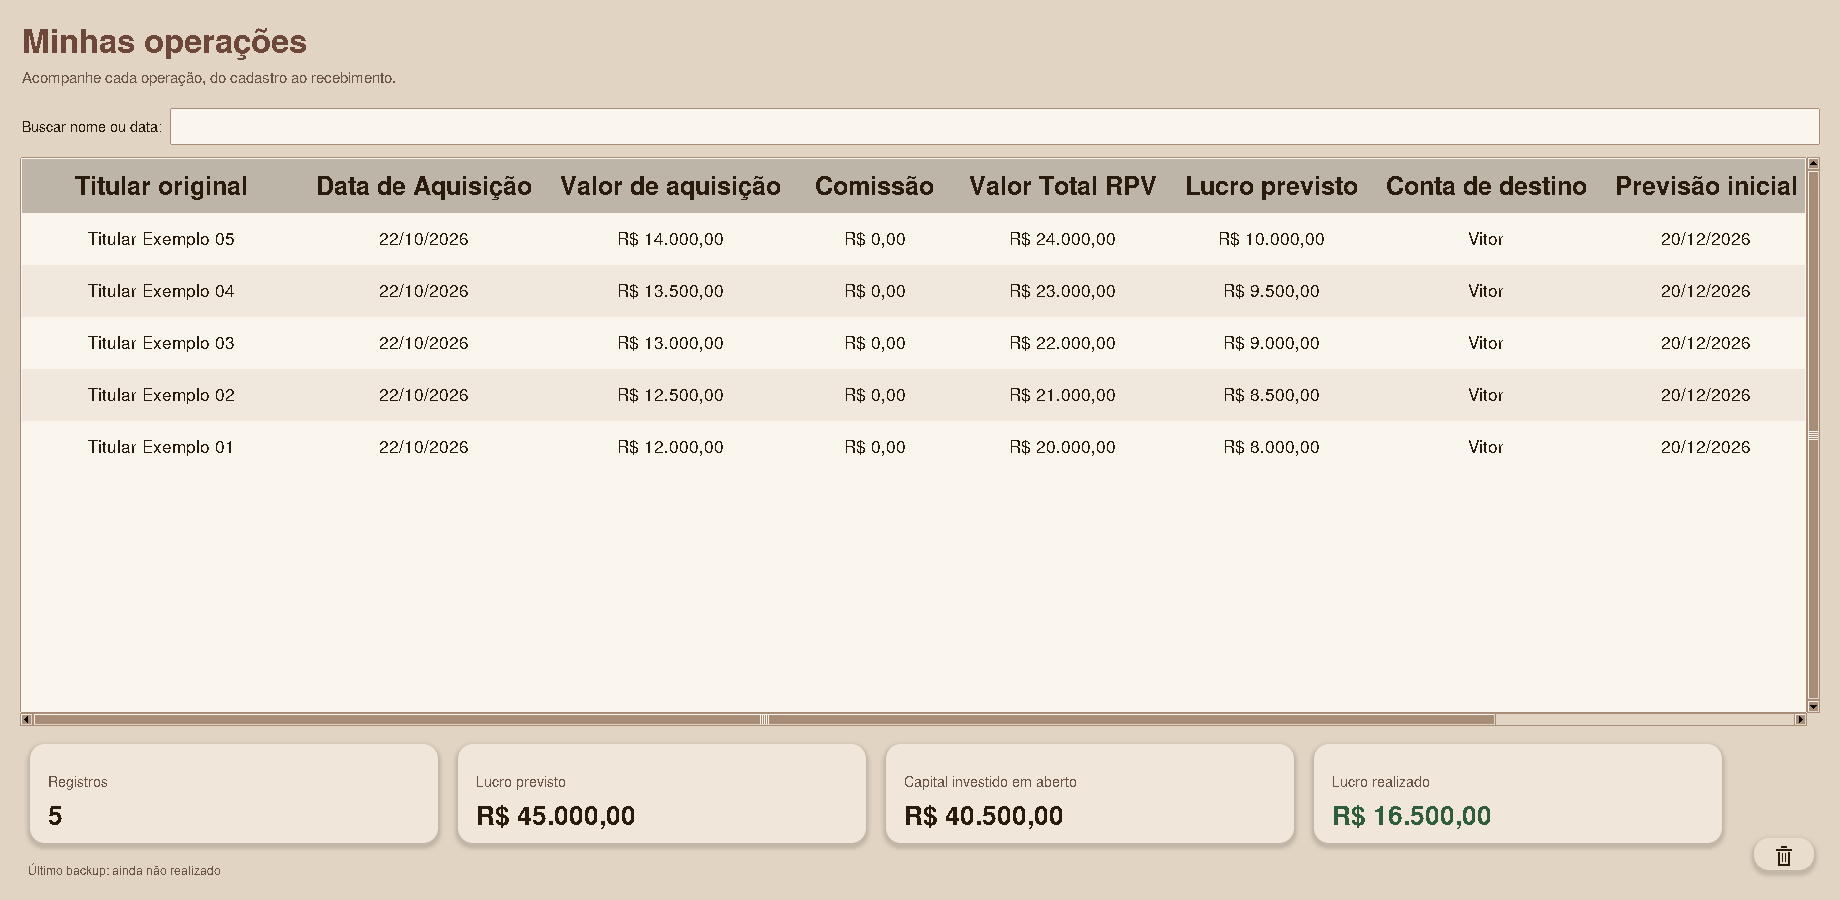
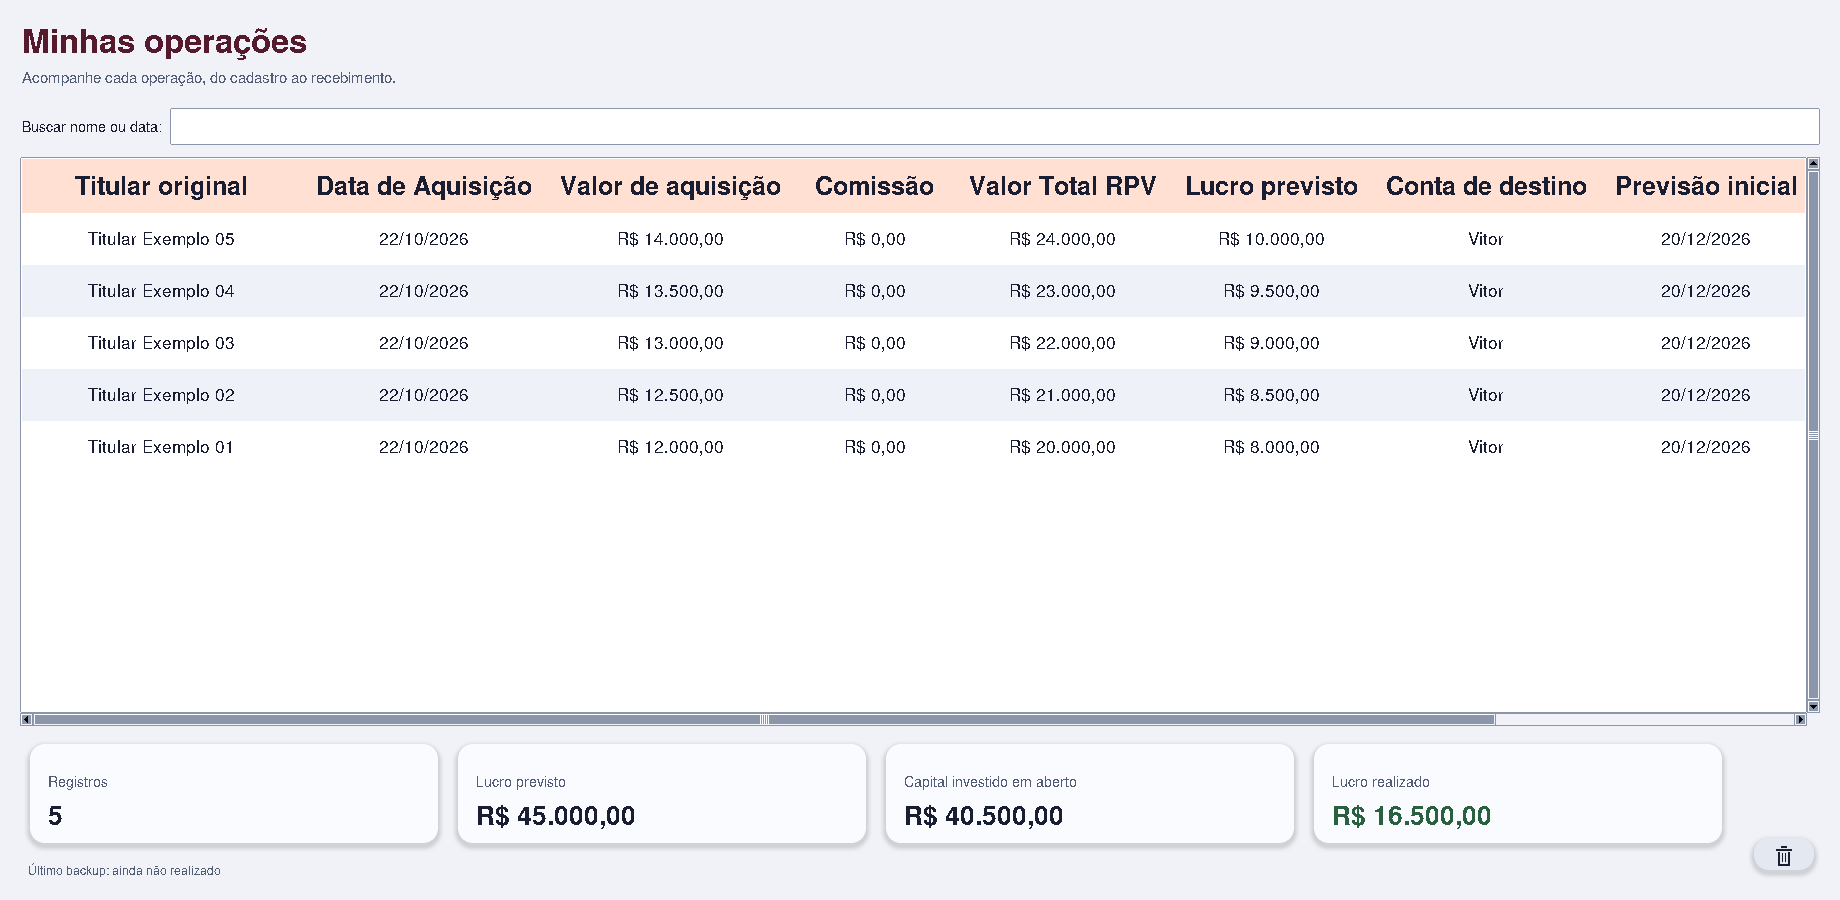
Aplica paleta azul e pêssego nos temas da versão 0.16.3

diff --git a/tema.py b/tema.py
@@ -3,16 +3,16 @@ import tkinter as tk
 from tkinter import ttk
 
 PALETAS = {
-    'claro': dict(fundo='#e1d4c2', campo='#faf5ed', superficie='#f0e6d9', texto='#291c0e',
-                  secundario='#695447', botao='#e9ddce', borda='#a78d78', ativo='#d6c2ae',
-                  selecao='#d2b8a2', texto_selecao='#291c0e', verde='#305d3c', vermelho='#993c30',
-                  desabilitado='#7a6a5b', primario='#6e473b', primario_texto='#fff8ef', primario_ativo='#59372d',
-                  primario_pressionado='#41281f', floresta='#6e473b', sage='#beb5a9', linha='#f0e8dc'),
-    'escuro': dict(fundo='#21180f', campo='#291c0e', superficie='#33251b', texto='#f2e6d6',
-                   secundario='#c7b6a4', botao='#463227', borda='#806653', ativo='#533c2f',
-                   selecao='#654a3b', texto_selecao='#fff5e7', verde='#acd1a5', vermelho='#f3aaa0',
-                   desabilitado='#ae9985', primario='#c6a68c', primario_texto='#291c0e', primario_ativo='#dfc3a8',
-                   primario_pressionado='#a78d78', floresta='#dfc3a8', sage='#4a3729', linha='#302217'),
+    'claro': dict(fundo='#f0f2f7', campo='#ffffff', superficie='#fafbfe', texto='#191e32',
+                  secundario='#525e76', botao='#e3e8f1', borda='#8b96aa', ativo='#d3dbea',
+                  selecao='#ffd8c7', texto_selecao='#191e32', verde='#286040', vermelho='#b51a2b',
+                  desabilitado='#737e92', primario='#b51a2b', primario_texto='#ffffff', primario_ativo='#951526',
+                  primario_pressionado='#551a2b', floresta='#551a2b', sage='#ffe0d3', linha='#eef1f7'),
+    'escuro': dict(fundo='#191e32', campo='#1c2339', superficie='#242f49', texto='#f3f5fa',
+                   secundario='#b8c2d7', botao='#384358', borda='#6c7a95', ativo='#45516b',
+                   selecao='#4b3550', texto_selecao='#fff3ee', verde='#abd5ba', vermelho='#ffa3a9',
+                   desabilitado='#a0acc3', primario='#ffa586', primario_texto='#191e32', primario_ativo='#ffc0a8',
+                   primario_pressionado='#df8568', floresta='#ffa586', sage='#384358', linha='#252e46'),
 }
 _modo = 'claro'
 

diff --git a/versao.py b/versao.py
@@ -1,2 +1,2 @@
 """Versão da entrega publicada no GitHub com a tag correspondente."""
-VERSAO = '0.16.2'
+VERSAO = '0.16.3'

diff --git a/README.md b/README.md
@@ -1,4 +1,4 @@
-# Gestor de RPV — 0.16.2
+# Gestor de RPV — 0.16.3
 
 Aplicativo pessoal para Windows, em Python com Tkinter e SQLite. Cada computador
 mantém seus próprios dados, sem servidor ou sincronização. Não exige pacotes extras.
@@ -14,22 +14,22 @@ python app.py
 
 Mantenha `app.py`, `dados.py`, `componentes.py`, `contas.py`, `interacao.py`, `tema.py`, `calculadora.py`, `backup.py`, `ordenacao.py`, `selecao.py`, `documentos.py`, `visual.py` e `versao.py` juntos.
 A tela inicial tem os botões **Nova entrada**, **Minhas operações**,
-**Contas de recebimento** e **Sair**. A assinatura **Vitoran Tech · v0.16.2** aparece no canto inferior direito.
+**Contas de recebimento** e **Sair**. A assinatura **Vitoran Tech · v0.16.3** aparece no canto inferior direito.
 O número é lido da versão do programa e acompanha cada atualização.
 As janelas abrem centralizadas; o histórico abre maximizado no Windows.
 
 ## Identidade visual
 
-Visual inspirado na paleta areia (`#E1D4C2`), bege (`#BEB5A9`), caramelo (`#A78D78`),
-marrom (`#6E473B`) e café (`#291C0E`). O modo claro usa superfícies suaves e o escuro
-usa fundos em café com detalhes em caramelo. Recebimentos e lucro realizado continuam
+Visual inspirado em azul profundo (`#191E32`, `#242F49`, `#384358`), pêssego (`#FFA586`),
+vermelho (`#B51A2B`) e vinho (`#551A2B`). O modo claro usa fundos suaves, ações em vermelho
+e detalhes em pêssego; o escuro usa superfícies azuis com destaques em pêssego. Recebimentos e lucro realizado continuam
 em verde. O botão **Modo escuro / Modo claro**, com ícones de lua e sol, alterna a
 aparência; o menu **Exibir** do histórico oferece as mesmas opções.
 
 - Tela inicial com três cartões de ações e ícones desenhados em Python, sem numeração.
   A assinatura Vitoran Tech fica somente no rodapé.
 - Temas e fontes reutilizados, com renderização das sombras otimizada para agilizar a alternância.
-- Cantos arredondados, sombras discretas e tons de marrom e caramelo nas ações principais.
+- Cantos arredondados, sombras discretas e ações principais em vermelho no claro e pêssego no escuro.
   Os botões não mostram retângulo tracejado após o clique; a navegação por
   teclado e a ativação pela barra de espaço continuam disponíveis.
 - Fonte Segoe UI no Windows, com alternativas locais em outros sistemas.
@@ -57,7 +57,7 @@ aparência; o menu **Exibir** do histórico oferece as mesmas opções.
 - **Editar → Editar registro / Excluir registro**: edita uma linha ou envia as selecionadas à lixeira.
 - **Exibir → Tema claro / Tema escuro**: muda o tema de todas as janelas,
   inclusive formulários, calendários, menus de contexto e calculadora.
-  A escolha vale durante a execução; o aplicativo inicia no tema claro em tons de areia.
+  A escolha vale durante a execução; o aplicativo inicia no tema claro.
 - **Calculadora**: abre uma calculadora independente, sem modificar o cadastro.
   Faz soma, subtração, multiplicação, divisão, porcentagem, troca de sinal e
   apagamento. Aceita vírgula, teclado, Enter para calcular e Esc para limpar.

diff --git a/CHANGELOG.md b/CHANGELOG.md
@@ -1,5 +1,11 @@
 # Histórico de versões
 
+## 0.16.3
+
+- Modos claro e escuro renovados com azul profundo, pêssego, vermelho e vinho.
+- Tema claro com fundos suaves e ações em vermelho; tema escuro com superfícies azuis e destaques em pêssego.
+- Paleta aplicada a todas as telas, mantendo o verde de recebimentos e lucros realizados.
+
 ## 0.16.2
 
 - Nova paleta inspirada em areia, caramelo e marrom para os modos claro e escuro.
